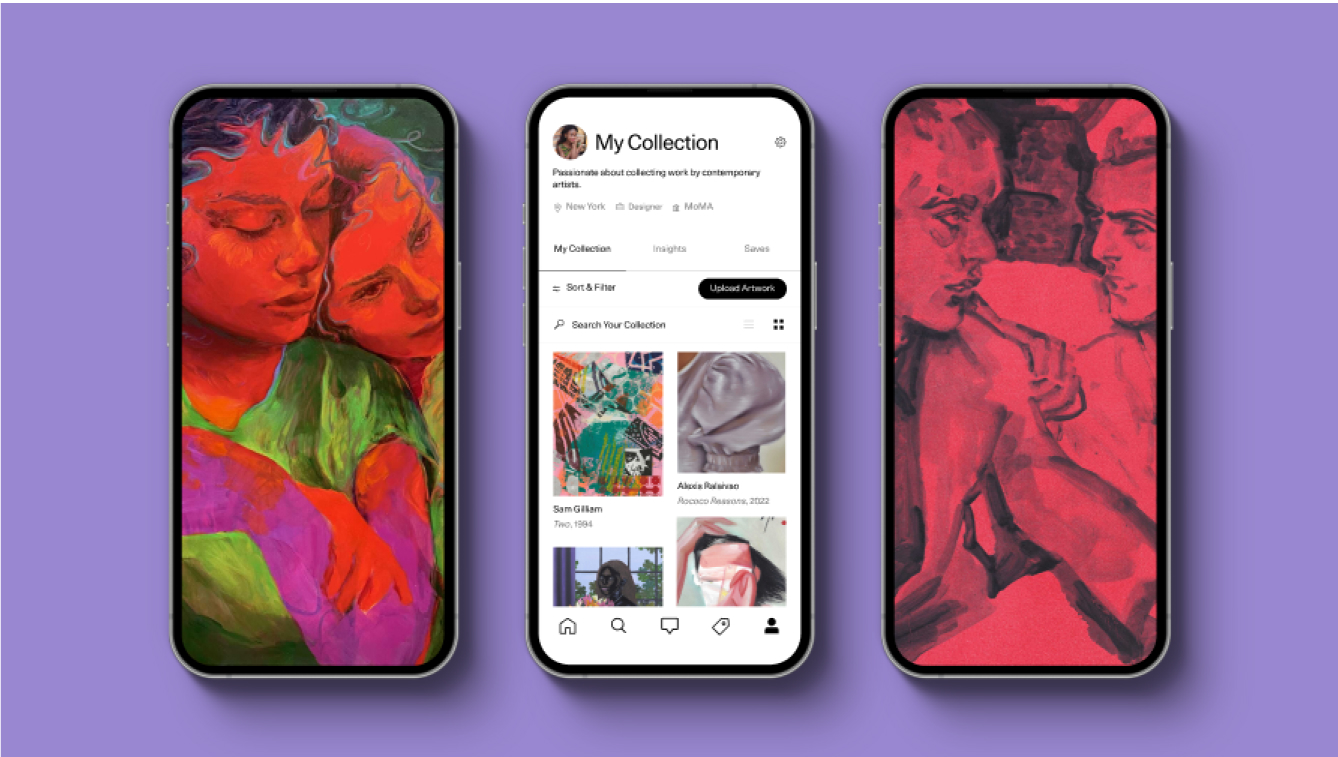
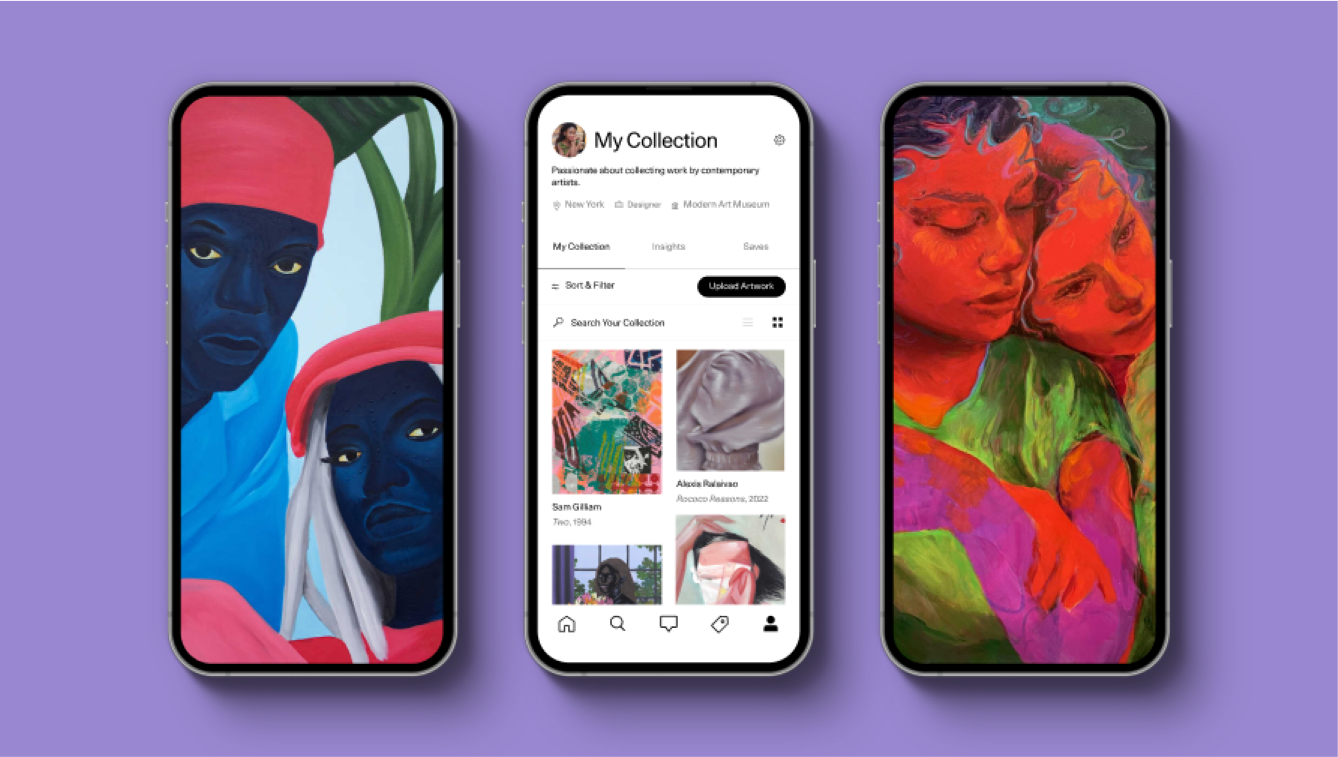
chore(CX-3625): change the Assets and the copy of the "Meet your new art advisor" as according to design (#8562)
chore: change-the-assets-and-the-copy

diff --git a/src/app/Scenes/Home/Components/MeetYourNewAdvisorRail.tsx b/src/app/Scenes/Home/Components/MeetYourNewAdvisorRail.tsx
@@ -23,8 +23,8 @@ export const MeetYourNewAdvisorRail: React.FC<MeetYourNewAdvisorRailProps> = (pr
     {
       jsx: (
         <HomeFeedOnboardingCard
-          title="Get the art you want"
-          subtitle="All the world’s in-demand art, and tools to get exactly what you’re looking for."
+          title="Find the art you love"
+          subtitle="Discover the tools you need to collect artworks that fit your taste."
           image={require("images/meet-your-new-art-advisor-0.jpg")}
           buttonText="Explore Works"
           onPress={() => {
